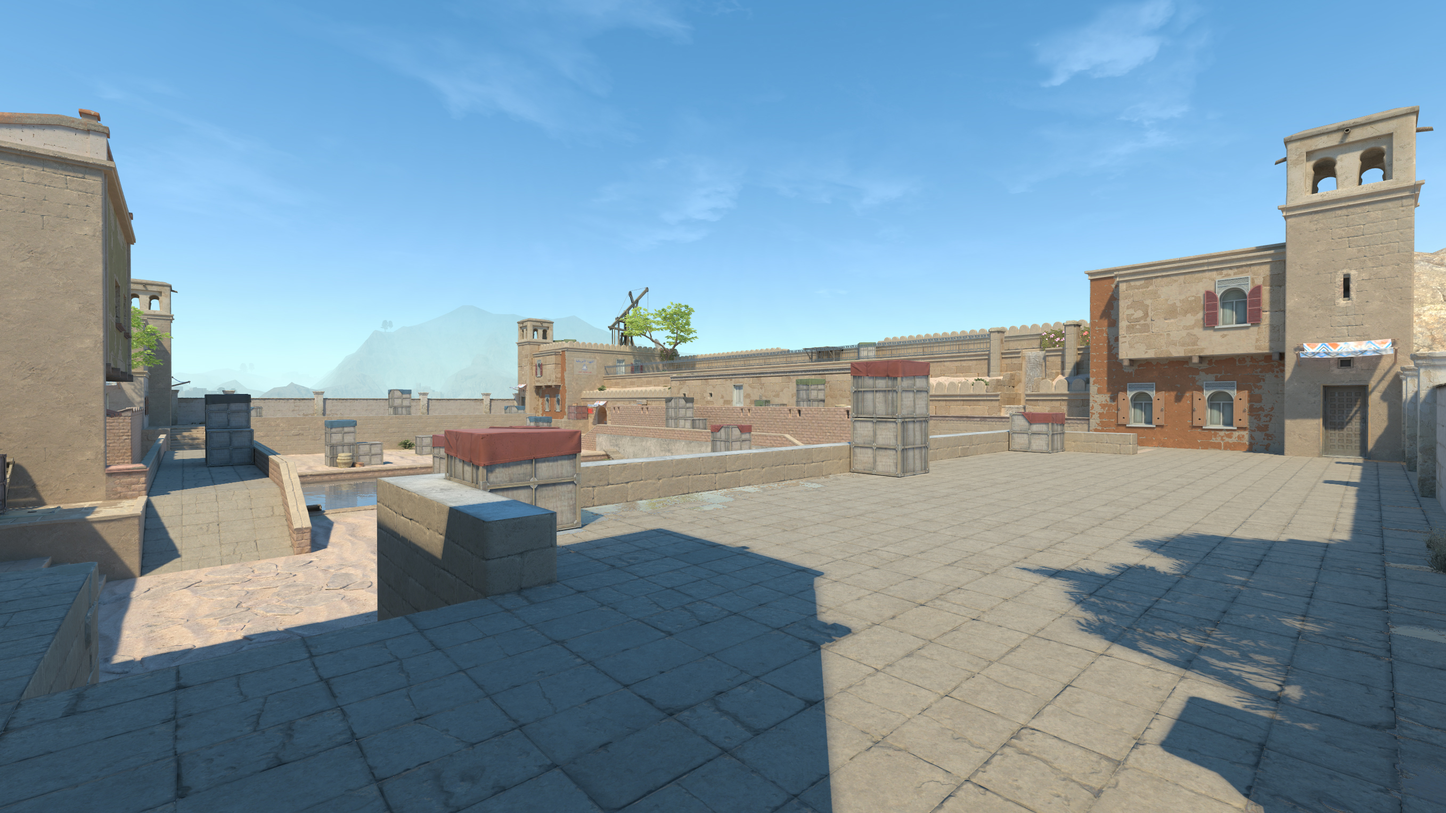
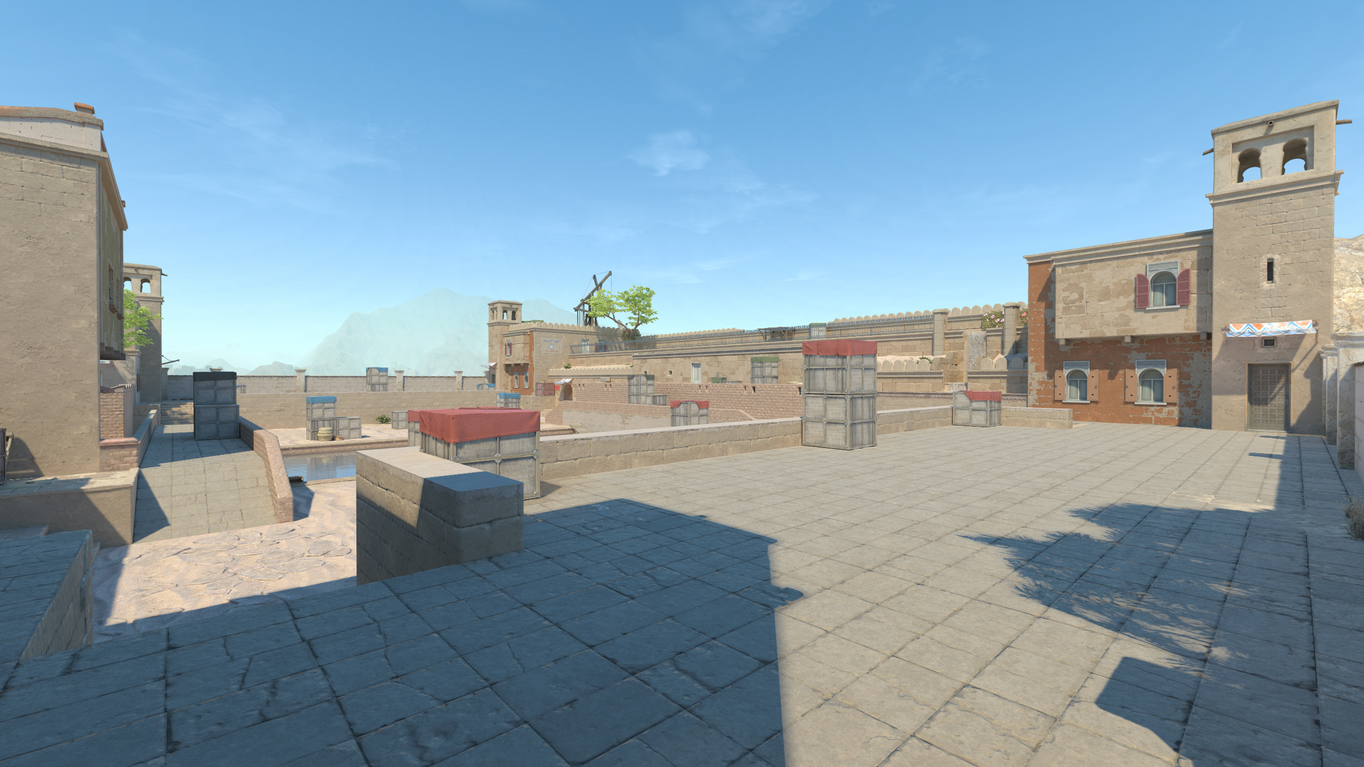
Updated the screenshots

diff --git a/media/screenshots/README.md b/media/screenshots/README.md
@@ -1,21 +1,36 @@
 It was lazy to place cameras on the map, so I temporarily wrote below commands to create the same screenshots.
 
-```cs
-// Screenshot 1
-fov_cs_debug 45;setpos 471.059906 2293.227539 645.095520;setang 15.721281 -113.586143 0.000000
+### Screenshot 1
+```
+fov_cs_debug 45;setpos 471.059906 2293.227539 581;setang 15.721281 -113.586143 0.000000
+```
 
-// Screenshot 2
-fov_cs_debug 85;setpos -563.008545 1462.507080 357.508911;setang 12.619737 -62.069069 0.000000
+### Screenshot 2
+```
+fov_cs_debug 85;setpos -563.008545 1462.507080 293.5;setang 12.619737 -62.069069 0.000000
+```
 
-// Screenshot 3
-fov_cs_debug 50;setpos 545.806335 -1759.068481 481.837555;setang 11.502712 110.857140 0.000000
+### Screenshot 3
+```
+fov_cs_debug 50;setpos 545.806335 -1759.068481 418;setang 11.502712 110.857140 0.000000
+```
 
-// Screenshot 4
-fov_cs_debug 80;setpos -649.478149 -959.751282 305.237274;setang 13.079767 48.152859 0.000000
+### Screenshot 4
+```
+fov_cs_debug 80;setpos -649.478149 -959.751282 241;setang 13.079767 48.152859 0.000000
+```
 
-// Screenshot 5
-fov_cs_debug 85;setpos 597.796997 1435.526123 242.607483;setang 0.467450 -132.301102 0.000000
+###Screenshot 5
+```
+fov_cs_debug 85;setpos 597.796997 1435.526123 178.5;setang 0.467450 -132.301102 0.000000
+```
 
-// Screenshot 6
-fov_cs_debug 85;setpos -606.637451 -1435.097168 243.382523;setang 3.753056 51.828999 0.000000
+### Screenshot 6
+```
+fov_cs_debug 85;setpos -606.637451 -1435.097168 179.5;setang 3.753056 51.828999 0.000000
+```
+
+### Screenshot 7
+```
+fov_cs_debug 85;setpos 1562.5 -395 59;setang -5.35 -160 0
 ```
